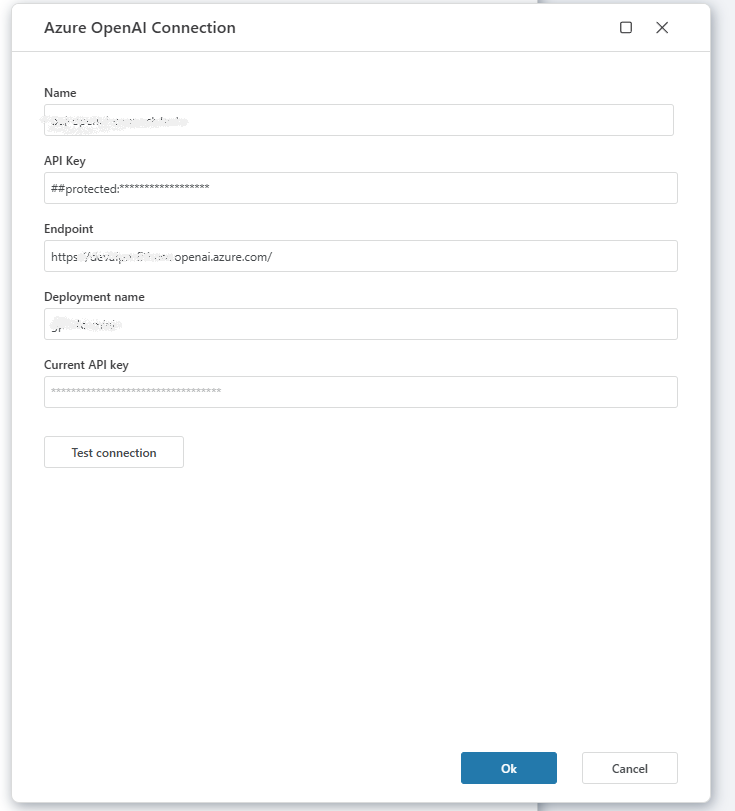
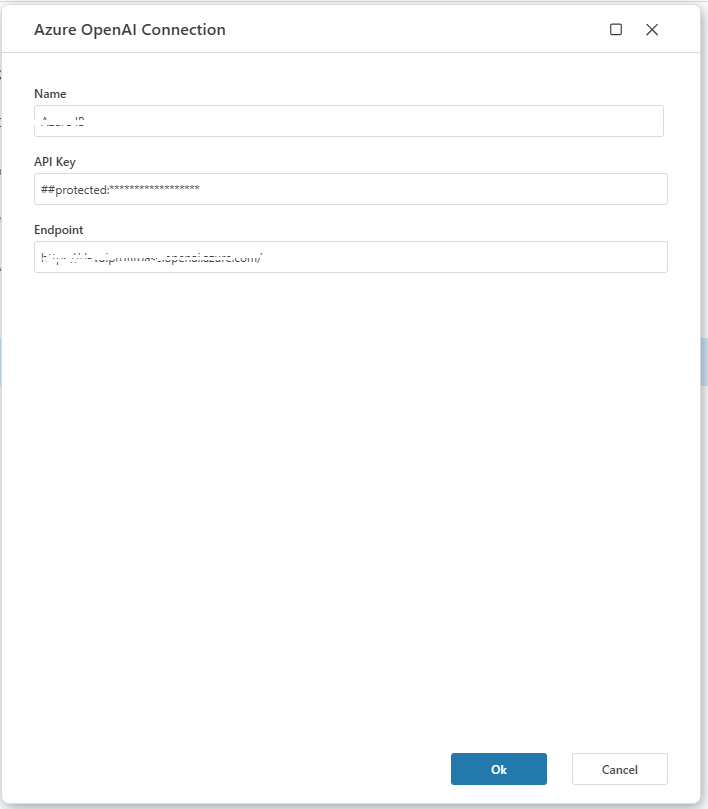
couple of updates

diff --git a/articles/flow/actions/openai/chat-completion.md b/articles/flow/actions/openai/chat-completion.md
@@ -1,1 +1,25 @@
+
+
 # Chat Completion
+
+The **Chat Completion** returns the response from an [OpenAI](https://platform.openai.com/docs/api-reference/introduction) chat model given a user prompt.   
+ 
+
+## Properties
+
+| Name                  | Type      | Description |
+|-----------------------|-----------|-------------|
+| Title             | Optional  | The title of the action. |
+| Connection        | Required  | Defines the [connection](openai-connection.md) to **OpenAI**. |
+| Model id   | Required  | Id of the chosen [Model](https://platform.openai.com/docs/models).|
+| User Prompt       | Required  | The input message from the user, which the model processes to generate a response. |
+| System Prompt     | Optional  | A system-level instruction that guides the model’s behavior and response style. |
+| History           | Optional  | A record of past interactions that provides context to the conversation, helping the model maintain continuity. |
+| Temperature       | Optional  |Temperature in models controls the randomness and creativity of the generated responses. Lower temperatures (e.g., 0.2) produce more focused, predictable text, ideal for tasks that require precision. Higher temperatures (e.g., 1.5) increase creativity and variability, but may risk generating less coherent or relevant content, making it important to adjust based on your desired outcome. The default is 0.7 if nothing is defined by the user.|
+| Max Completion Tokens | Optional | Sets a limit on the number of tokens (words, characters, or pieces of text) in the model’s response. |
+| Result Variable Name | Optional | Stores the generated AI response. Default: "response". |
+| Description       | Optional  | Additional details or notes regarding the chat completion setup. |
+
+<br/>
+
+

diff --git a/articles/flow/actions/azure-openai/chat-completion.md b/articles/flow/actions/azure-openai/chat-completion.md
@@ -14,7 +14,7 @@ The **Chat Completion** returns the response from an [Azure OpenAI](https://lear
 | User Prompt       | Required  | The input message from the user, which the model processes to generate a response. |
 | System Prompt     | Optional  | A system-level instruction that guides the model’s behavior and response style. |
 | History           | Optional  | A record of past interactions that provides context to the conversation, helping the model maintain continuity. |
-| Temperature       | Optional  |Temperature in models controls the randomness and creativity of the generated responses. Lower temperatures (e.g., 0.2) produce more focused, predictable text, ideal for tasks that require precision. Higher temperatures (e.g., 1.5) increase creativity and variability, but may risk generating less coherent or relevant content, making it important to adjust based on your desired outcome. |
+| Temperature       | Optional  |Temperature in models controls the randomness and creativity of the generated responses. Lower temperatures (e.g., 0.2) produce more focused, predictable text, ideal for tasks that require precision. Higher temperatures (e.g., 1.5) increase creativity and variability, but may risk generating less coherent or relevant content, making it important to adjust based on your desired outcome.  The default is 0.7 if nothing is defined by the user.|
 | Max Completion Tokens | Optional | Sets a limit on the number of tokens (words, characters, or pieces of text) in the model’s response. |
 | Result Variable Name | Optional | Stores the generated AI response. Default: "response". |
 | Description       | Optional  | Additional details or notes regarding the chat completion setup. |

diff --git a/articles/flow/actions/openai/openai-connection.md b/articles/flow/actions/openai/openai-connection.md
@@ -1,3 +1,17 @@
 # Connecting to OpenAI
 
-**OpenAI** connection allows users to interact with an OpenAI service by providing an api key.
+**OpenAI** connection allows users to interact with an [OpenAI](https://platform.openai.com/docs/api-reference/introduction) service by providing an api key.
+
+
+![image](../../../../images/flow/openai-connection1.png)
+
+## Connection Details
+
+An OpenAI connection consists of the following fields:
+
+| Field            | Description                                                  |
+|----------------|----------|--------------------------------------------------------------|
+| **Name**           | Name of the connection.                                      |
+| **API Key**        | The API key used for authentication.                        |
+
+

diff --git a/articles/flow/actions/azure-openai/azure-openai-connection.md b/articles/flow/actions/azure-openai/azure-openai-connection.md
@@ -13,8 +13,7 @@ An Azure OpenAI connection consists of the following fields:
 | **Name**           | Name of the connection.                                      |
 | **API Key**        | The API key used for authentication.                        |
 | **Endpoint**       | The endpoint URL for the Azure OpenAI instance.             |
-| **Deployment Name** | The name of the deployed AI model instance.                 |
-| **Current API Key** | The current API key, if updating an existing connection.            |
+
 
 ![image](../../../../images/flow/azure-openai-connection2.png)
 
